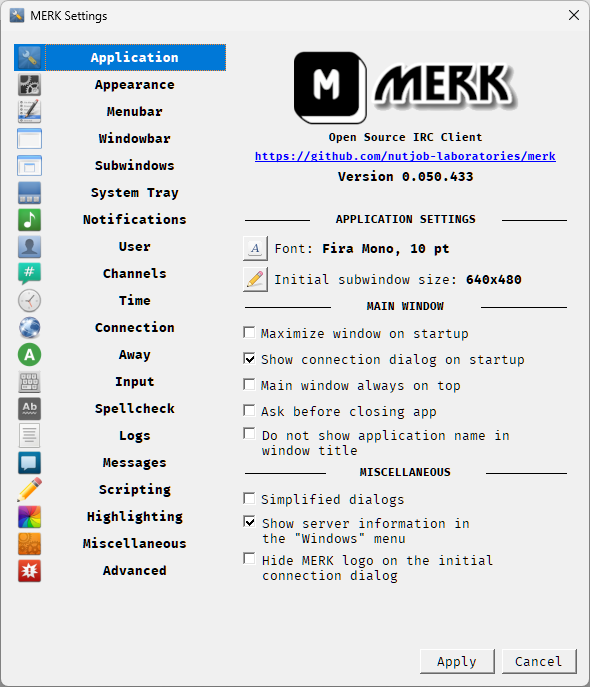
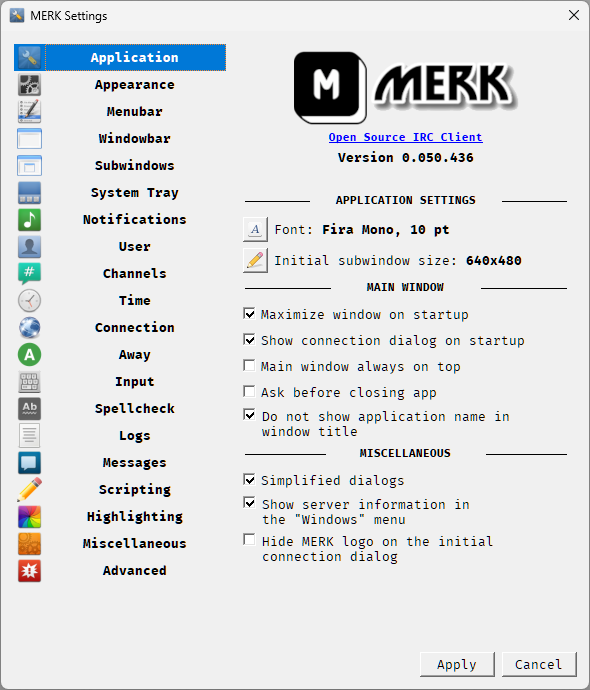
0.050.450 Release

diff --git a/README.html b/README.html
@@ -1,4 +1,4 @@
-<h1>MERK 0.050.436</h1>
+<h1>MERK 0.050.450</h1>
 
 <p><a href="https://github.com/nutjob-laboratories/merk">Official source code repository</a></p>
 <h1 id="table-of-contents">Table of contents</h1>
@@ -14,7 +14,7 @@
 <li><a href="#does-merk-need-any-help">Does MERK need any help?</a></li>
 </ul>
 <h1 id="summary">Summary</h1>
-<p><strong>MERK</strong> is a graphical <a href="https://www.gnu.org/licenses/gpl-3.0.en.html">open source</a> <a href="https://en.wikipedia.org/wiki/Internet_Relay_Chat">Internet relay chat</a> client. The current development version is <strong>0.050.436</strong>. It uses a <a href="https://en.wikipedia.org/wiki/Multiple-document_interface">multiple-document interface</a>, much like the popular Windows IRC client <a href="https://www.mirc.com/">mIRC</a>.  <strong>MERK</strong> is written in Python 3, using the <a href="https://pypi.org/project/PyQt5/">PyQt5</a> and <a href="https://twistedmatrix.com/trac/">Twisted</a> libraries, and runs on both Windows and Linux. <strong>MERK</strong> is updated frequently with new features and bugfixes.</p>
+<p><strong>MERK</strong> is a graphical <a href="https://www.gnu.org/licenses/gpl-3.0.en.html">open source</a> <a href="https://en.wikipedia.org/wiki/Internet_Relay_Chat">Internet relay chat</a> client. The current development version is <strong>0.050.450</strong>. It uses a <a href="https://en.wikipedia.org/wiki/Multiple-document_interface">multiple-document interface</a>, much like the popular Windows IRC client <a href="https://www.mirc.com/">mIRC</a>.  <strong>MERK</strong> is written in Python 3, using the <a href="https://pypi.org/project/PyQt5/">PyQt5</a> and <a href="https://twistedmatrix.com/trac/">Twisted</a> libraries, and runs on both Windows and Linux. <strong>MERK</strong> is updated frequently with new features and bugfixes.</p>
 <p><strong>MERK</strong> is still in development, but it works, and can be used for most IRC activities.</p>
 <p>Join me on the official <strong>MERK</strong> IRC channel, <strong>#merk</strong> on the Libera Chat network! Connect to  Libera in the client as one of the built-in server suggestions, or at <strong>irc.libera.chat</strong>, port <strong>6667</strong> (you can also connect via SSL on port <strong>6697</strong>). Honestly, I work a lot, so I&#39;m almost always idle, but I pop in and chat a few times a day!</p>
 <h1 id="making-merk-portable-on-windows">Making MERK Portable on Windows</h1>

diff --git a/merk/resources/README.html b/merk/resources/README.html
@@ -1,4 +1,4 @@
-<h1>MERK 0.050.436</h1>
+<h1>MERK 0.050.437</h1>
 
 <p><a href="https://github.com/nutjob-laboratories/merk">Official source code repository</a></p>
 <h1 id="table-of-contents">Table of contents</h1>
@@ -14,7 +14,7 @@
 <li><a href="#does-merk-need-any-help">Does MERK need any help?</a></li>
 </ul>
 <h1 id="summary">Summary</h1>
-<p><strong>MERK</strong> is a graphical <a href="https://www.gnu.org/licenses/gpl-3.0.en.html">open source</a> <a href="https://en.wikipedia.org/wiki/Internet_Relay_Chat">Internet relay chat</a> client. The current development version is <strong>0.050.436</strong>. It uses a <a href="https://en.wikipedia.org/wiki/Multiple-document_interface">multiple-document interface</a>, much like the popular Windows IRC client <a href="https://www.mirc.com/">mIRC</a>.  <strong>MERK</strong> is written in Python 3, using the <a href="https://pypi.org/project/PyQt5/">PyQt5</a> and <a href="https://twistedmatrix.com/trac/">Twisted</a> libraries, and runs on both Windows and Linux. <strong>MERK</strong> is updated frequently with new features and bugfixes.</p>
+<p><strong>MERK</strong> is a graphical <a href="https://www.gnu.org/licenses/gpl-3.0.en.html">open source</a> <a href="https://en.wikipedia.org/wiki/Internet_Relay_Chat">Internet relay chat</a> client. The current development version is <strong>0.050.437</strong>. It uses a <a href="https://en.wikipedia.org/wiki/Multiple-document_interface">multiple-document interface</a>, much like the popular Windows IRC client <a href="https://www.mirc.com/">mIRC</a>.  <strong>MERK</strong> is written in Python 3, using the <a href="https://pypi.org/project/PyQt5/">PyQt5</a> and <a href="https://twistedmatrix.com/trac/">Twisted</a> libraries, and runs on both Windows and Linux. <strong>MERK</strong> is updated frequently with new features and bugfixes.</p>
 <p><strong>MERK</strong> is still in development, but it works, and can be used for most IRC activities.</p>
 <p>Join me on the official <strong>MERK</strong> IRC channel, <strong>#merk</strong> on the Libera Chat network! Connect to  Libera in the client as one of the built-in server suggestions, or at <strong>irc.libera.chat</strong>, port <strong>6667</strong> (you can also connect via SSL on port <strong>6697</strong>). Honestly, I work a lot, so I&#39;m almost always idle, but I pop in and chat a few times a day!</p>
 <h1 id="making-merk-portable-on-windows">Making MERK Portable on Windows</h1>

diff --git a/merk/dialog/settings.py b/merk/dialog/settings.py
@@ -1470,12 +1470,12 @@ class Dialog(QDialog):
 		logo.setPixmap(pixmap)
 		logo.setAlignment(Qt.AlignCenter)
 
-		app_link = QLabel(f'<center><b><small><a href="{APPLICATION_SOURCE}">{APPLICATION_SOURCE}</a></small></b></center>')
+		app_link = QLabel(f'<center><b><small><a href="{APPLICATION_SOURCE}">Open Source IRC Client</a></small></b></center>')
 		app_link.setOpenExternalLinks(True)
 
 		applicationLayout = QVBoxLayout()
 		applicationLayout.addWidget(logo)
-		applicationLayout.addWidget(QLabel(f'<center><b><small>Open Source IRC Client</small></b></center>'))
+		#applicationLayout.addWidget(QLabel(f'<center><b><small>Open Source IRC Client</small></b></center>'))
 		applicationLayout.addWidget(app_link)
 		applicationLayout.addWidget(QLabel(f'<center><b>Version {APPLICATION_VERSION}</b></center>'))
 		applicationLayout.addWidget(QLabel(' '))

diff --git a/merk/resources/version.py b/merk/resources/version.py
@@ -1,1 +1,1 @@
-APPLICATION_VERSION = "0.050.436"
+APPLICATION_VERSION = "0.050.450"

diff --git a/README.md b/README.md
@@ -2,8 +2,8 @@
   <img src="https://github.com/nutjob-laboratories/merk//raw/main/graphics/banner.png"><br>
   <b><big>Open Source IRC Client</big></b><br>
   <i>A multiple-document interface IRC client for Windows and Linux</i><br>
-  <b><big>Current stable release: <a href="https://github.com/nutjob-laboratories/merk/releases/tag/0.050.400">MERK 0.050.400</a></big></b><br>
-  <b>Current development version: 0.050.436</b><br><br>
+  <b><big>Current stable release: <a href="https://github.com/nutjob-laboratories/merk/releases/tag/0.050.450">MERK 0.050.450</a></big></b><br>
+  <b>Current development version: 0.050.450</b><br><br>
   <b><a href="https://gofund.me/ae062139">Help Fund MERK!</a></b><br>
 </p>
 
@@ -29,21 +29,21 @@ All files are packed in [ZIP archive files](https://en.wikipedia.org/wiki/ZIP_(f
 | Type| Platform  | Download  |
 | :----:    | :----:    | :----:    |
 | User Guide |  -  | [View](./MERK_User_Guide.pdf)  |
-| Current Release |  -  | [MERK 0.050.400 Release](https://github.com/nutjob-laboratories/merk/releases/tag/0.050.400)  |
-| Zip Archive|  Cross-platform  | [Download MERK 0.050.436 (11.95 MB)](https://www.dropbox.com/scl/fi/pf9p7ltb3uufm5akjz7l0/merk-latest.zip?rlkey=3caodopybbcxr4p9grxygxzym&st=01zsuura&dl=1)  |
-| Zip Archive|  Windows | [Download MERK 0.050.436 (48.76 MB)](https://www.dropbox.com/scl/fi/4w9ufyknzac24o06710bi/merk-windows-latest.zip?rlkey=zmir67l3klg8mw0omxayzmssc&st=vb69tsdi&dl=1)|
-|   Windows Installer|  Windows | [Download MERK 0.050.436 (45.88 MB)](https://www.dropbox.com/scl/fi/0u1vcg5xuntzs2b16e01b/merk_setup.zip?rlkey=8avj1gyed3txz1nfj9ev41mmh&st=zlve4c1o&dl=1)|
+| Current Release |  -  | [MERK 0.050.450 Release](https://github.com/nutjob-laboratories/merk/releases/tag/0.050.450)  |
+| Zip Archive|  Cross-platform  | [Download MERK 0.050.450 (11.95 MB)](https://www.dropbox.com/scl/fi/pf9p7ltb3uufm5akjz7l0/merk-latest.zip?rlkey=3caodopybbcxr4p9grxygxzym&st=01zsuura&dl=1)  |
+| Zip Archive|  Windows | [Download MERK 0.050.450 (48.76 MB)](https://www.dropbox.com/scl/fi/4w9ufyknzac24o06710bi/merk-windows-latest.zip?rlkey=zmir67l3klg8mw0omxayzmssc&st=vb69tsdi&dl=1)|
+|   Windows Installer|  Windows | [Download MERK 0.050.450 (45.89 MB)](https://www.dropbox.com/scl/fi/0u1vcg5xuntzs2b16e01b/merk_setup.zip?rlkey=8avj1gyed3txz1nfj9ev41mmh&st=zlve4c1o&dl=1)|
 
 # Summary
   
-**MERK** is a graphical [open source](https://www.gnu.org/licenses/gpl-3.0.en.html) [Internet relay chat](https://en.wikipedia.org/wiki/Internet_Relay_Chat) client. The current development version is **0.050.436**. It uses a [multiple-document interface](https://en.wikipedia.org/wiki/Multiple-document_interface), much like the popular Windows IRC client [mIRC](https://www.mirc.com/).  **MERK** is written in Python 3, using the [PyQt5](https://pypi.org/project/PyQt5/) and [Twisted](https://twistedmatrix.com/trac/) libraries, and runs on both Windows and Linux. **MERK** is updated frequently with new features and bugfixes.
+**MERK** is a graphical [open source](https://www.gnu.org/licenses/gpl-3.0.en.html) [Internet relay chat](https://en.wikipedia.org/wiki/Internet_Relay_Chat) client. The current development version is **0.050.450**. It uses a [multiple-document interface](https://en.wikipedia.org/wiki/Multiple-document_interface), much like the popular Windows IRC client [mIRC](https://www.mirc.com/).  **MERK** is written in Python 3, using the [PyQt5](https://pypi.org/project/PyQt5/) and [Twisted](https://twistedmatrix.com/trac/) libraries, and runs on both Windows and Linux. **MERK** is updated frequently with new features and bugfixes.
 
-**MERK** is still in development, but it works, and can be used for most IRC activities. [The current stable release of **MERK** is version 0.050.400](https://github.com/nutjob-laboratories/merk/releases/tag/0.050.400). **MERK** has a user guide, which can be [viewed here](./MERK_User_Guide.pdf).
+**MERK** is still in development, but it works, and can be used for most IRC activities. [The current stable release of **MERK** is version 0.050.450](https://github.com/nutjob-laboratories/merk/releases/tag/0.050.450). **MERK** has a user guide, which can be [viewed here](./MERK_User_Guide.pdf).
 
 Join me on the official **MERK** IRC channel, **#merk** on the Libera Chat network! Connect to  Libera in the client as one of the built-in server suggestions, or at **irc.libera.chat**, port **6667** (you can also connect via SSL on port **6697**). Honestly, I work a lot, so I'm almost always idle, but I pop in and chat a few times a day!
 
 # Running MERK on Windows
-**MERK** has a version built with [PyInstaller](https://www.pyinstaller.org/) which you can run without having to install Python or any of the requirements. [You can download the current stable release here](https://github.com/nutjob-laboratories/merk/releases/tag/0.050.400). For more information on **MERK** and how it works, [check out the user guide](./MERK_User_Guide.pdf).
+**MERK** has a version built with [PyInstaller](https://www.pyinstaller.org/) which you can run without having to install Python or any of the requirements. [You can download the current stable release here](https://github.com/nutjob-laboratories/merk/releases/tag/0.050.450). For more information on **MERK** and how it works, [check out the user guide](./MERK_User_Guide.pdf).
 
 To run **MERK**, [download](https://www.dropbox.com/scl/fi/fnu5uasoo2dzmzwiferhw/merk-windows-latest.zip?rlkey=9fke2qid0gna4n4zt00v0uhhy&dl=1) and unzip to any directory, and double click on `merk.exe` to run the client. If you [downloaded the installer](https://www.dropbox.com/scl/fi/0u1vcg5xuntzs2b16e01b/merk_setup.zip?rlkey=8avj1gyed3txz1nfj9ev41mmh&st=zlve4c1o&dl=1), unzip and double click on `setup.exe` to install **MERK**. You can install **MERK** any place you'd like.
 
@@ -118,7 +118,7 @@ There are three libraries that comes bundled with **MERK**:
 
 # Screenshots
 
-<p><small><i>Screenshots may not reflect the current release (0.050.400), and may reflect the current development version (0.050.436). More screenshots are in the <a href="./MERK_User_Guide.pdf">MERK User Guide</a>.</i></small></p>
+<p><small><i>Screenshots may not reflect the current release (0.050.450), and may reflect the current development version (0.050.450). More screenshots are in the <a href="./MERK_User_Guide.pdf">MERK User Guide</a>.</i></small></p>
 
 <p align="center">
 <center><a href="./graphics/screenshot_big.png"><img src="./graphics/screenshot1.png"></a></center></br>
